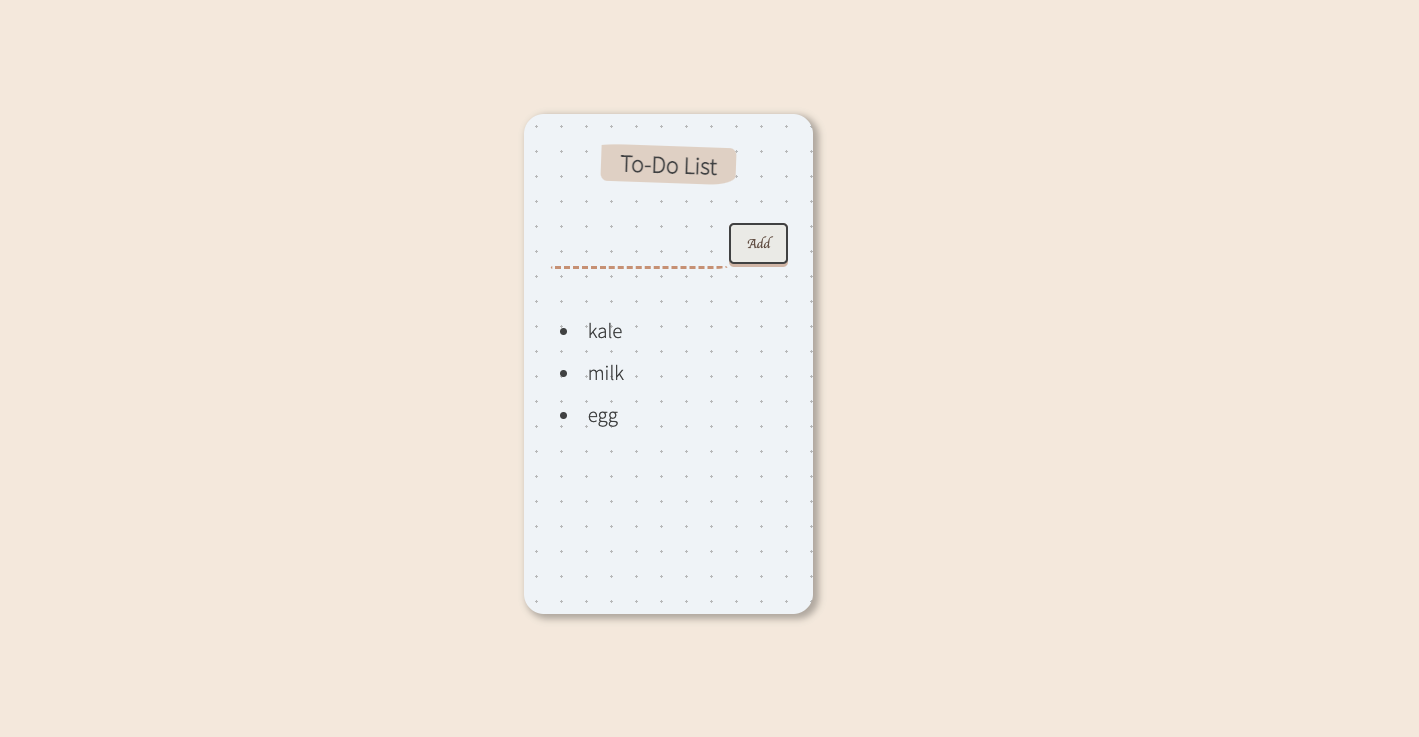
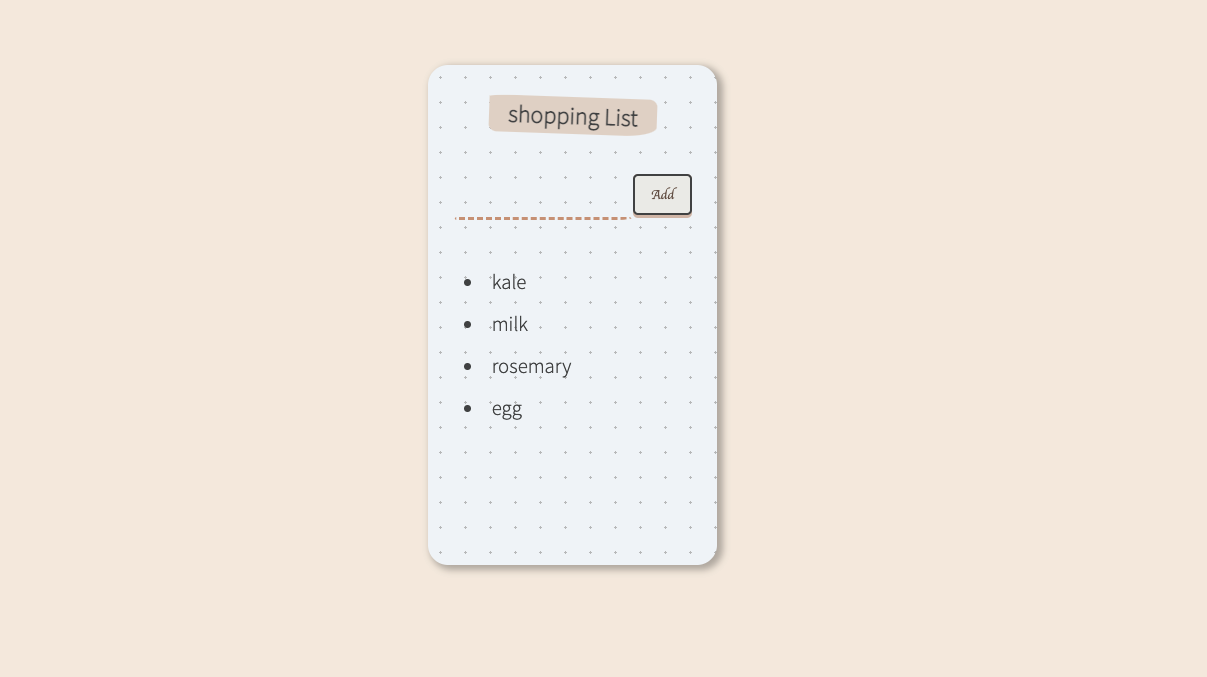
update

Changed region(s): [[0.3372, 0.0931, 0.6131, 0.8375]]

diff --git a/06-react-shopping-list/src/components/App.jsx b/06-react-shopping-list/src/components/App.jsx
@@ -28,7 +28,7 @@ function App() {
   return (
     <div className="container">
       <div className="heading">
-        <h1>To-Do List</h1>
+        <h1>shopping List</h1>
       </div>
       <div className="form">
         <input onChange={handleChange} type="text" value={inputText} />

diff --git a/02-asianfood-emoji-pedia/src/components/App.js b/02-asianfood-emoji-pedia/src/components/App.js
@@ -21,6 +21,7 @@ function App(){
     </h1>
     <dl className="dictionary">
     {/* //map function  */}
+    {/*//emojiTerm -> means each emojiPedia object in array */}
     {emojipedia.map(emojiTerm => (
           <Cards
             key={emojiTerm.id}

diff --git a/05-react-login-form2/src/components/App.jsx b/05-react-login-form2/src/components/App.jsx
@@ -13,6 +13,8 @@ function App() {
         setFName(firstName); 
     }
 
+   
+
     function updateLName(event){
         const LastName = event.target.value
         setLName(LastName);

diff --git a/02-asianfood-emoji-pedia/README.md b/02-asianfood-emoji-pedia/README.md
@@ -3,7 +3,7 @@
 ---
 ### What will you learn in the first React project?
 
-1. Waht is **props** ?
+### 1. Waht is **props** ?
 > Props stand for "Properties." They are read-only components. It is an object which stores the value of attributes of a tag and work similar to the HTML attributes.  
 According to [ReactJS Props - javatpoint] (https://www.javatpoint.com/react-props)
 
@@ -12,26 +12,36 @@ According to [ReactJS Props - javatpoint] (https://www.javatpoint.com/react-prop
 - React Props are like function arguments in JavaScript and attributes in HTML.
 
 ### [example] (https://www.w3schools.com/react/react_props.asp)
-
->function Car(props) {
+- The component receives the argument as a props object:
+`
+function Car(props) {
   return < h2>I am a { props.brand }!< /h2>;
 }
-
-> const myelement = <Car brand="Ford" />;
-
-> ReactDOM.render(myelement, document.getElementById('root'));
-
-> // `Print: I am a Ford!` 
+`
+`
+const myelement = < Car brand="Ford" />;
+ReactDOM.render(myelement, document.getElementById('root'));
+// Print: I am a Ford!
+`
+` 
 ---
-2. Mapping Data to Components
+### 2. Mapping Data to Components
 **javascript ⇒ Array.prototype.map()**
 
 - The `map()` method creates a new array populated with the results of calling a provided function on every element in the calling array.
+---
 **map( ) method**
-const numbers = [1, 2, 3, 4, 5];
-const numberMap = numbers.map((number) => number );
-console.log(numberMap);
-`//print : 2.a30c0c16.chunk.js:1 (5) [1, 2, 3, 4, 5]`
+
+`
+`
+`const numbers = [1, 2, 3, 4, 5];`
+`const numberMap = numbers.map((number) => number );`
+`console.log(numberMap);`
+`
+//print : 2.a30c0c16.chunk.js:1 (5) [1, 2, 3, 4, 5]
+`
+
+
 
 ---
 # Getting Started with React App

diff --git a/04-react-login-form/README.md b/04-react-login-form/README.md
@@ -10,22 +10,22 @@
 >var isLoggedIn = true;
 
 >function renderConditionally(){
-  if (isLoggedIn === true){
-    return  < h1>Hello< /h1>
-  }else {
-    return(
-    < form className="form">
-      < input type="text" placeholder="Username" />
-      < input type="password" placeholder="Password" />
-      < button type="submit">Login< /button>
-    < /form>
-    )
-  }
-}
+>  if (isLoggedIn === true){
+>   return  < h1>Hello< /h1>
+>  }else {
+>    return(
+>    < form className="form">
+>      < input type="text" placeholder="Username" />
+>      < input type="password" placeholder="Password" />
+>      < button type="submit">Login< /button>
+>    < /form>
+>    )
+>  }
+>}
 
 >function App() {
   return (
-    <div className="container">{renderConditionally()}</div>
+    < div className="container">{renderConditionally()}< /div>
   )
 }
 >export default App;

diff --git a/06-react-shopping-list/README.md b/06-react-shopping-list/README.md
@@ -1,11 +1,12 @@
-# React todo-list Project
+# React shopping-list Project
 ![shopping-list](https://github.com/miya-w/React-Projects/blob/main/06-react-shopping-list/imgs/shoppinglist01.png)
 ---
 **What will you learn in this React project?**
 CRUD -> Create, Read, Update, Delete
 ### 1.reate & Read
 - complex state & Javascript ES6 Spread Operator
-` function addItems(){
+
+  ` function addItems(){
     setItems(prevItems => {
       // Javascript ES6 Spread Operator
       return [...prevItems, inputText];

diff --git a/03-react-count-app/README.md b/03-react-count-app/README.md
@@ -1,7 +1,7 @@
 # React Count App Project
 ![count-app](https://github.com/miya-w/React-Projects/blob/main/03-react-count-app/imgs/count-app.png)
 ---
-**What will you learn in the first React project?**
+**What will you learn in this React project?**
 1. What is React Hooks - **useState**?
 - The state comes from this useState hook and this function comes from the React module.
 - One of the rules for using hooks is that you must use a hook inside a functional component.
